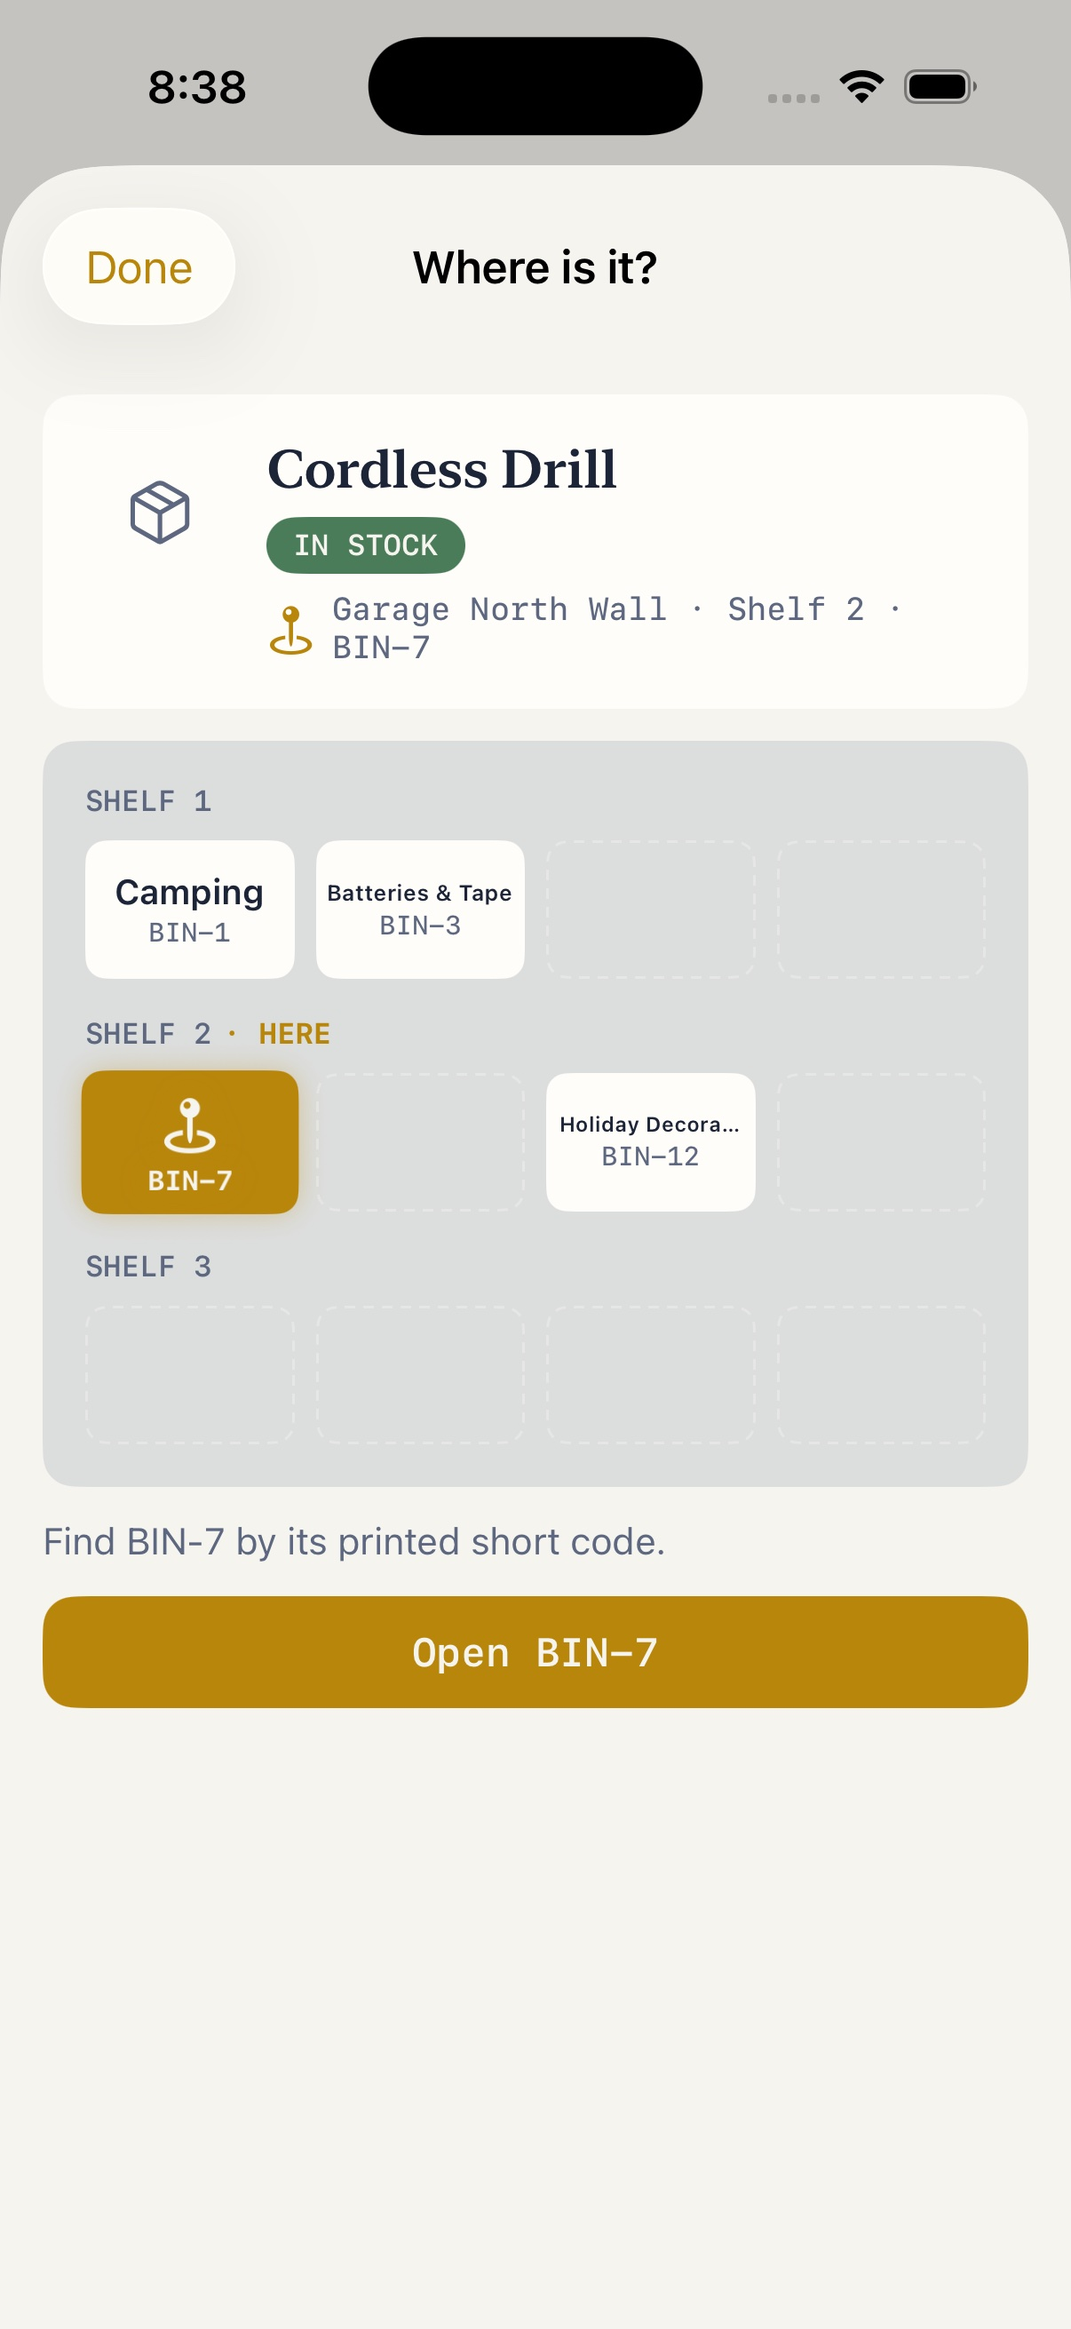
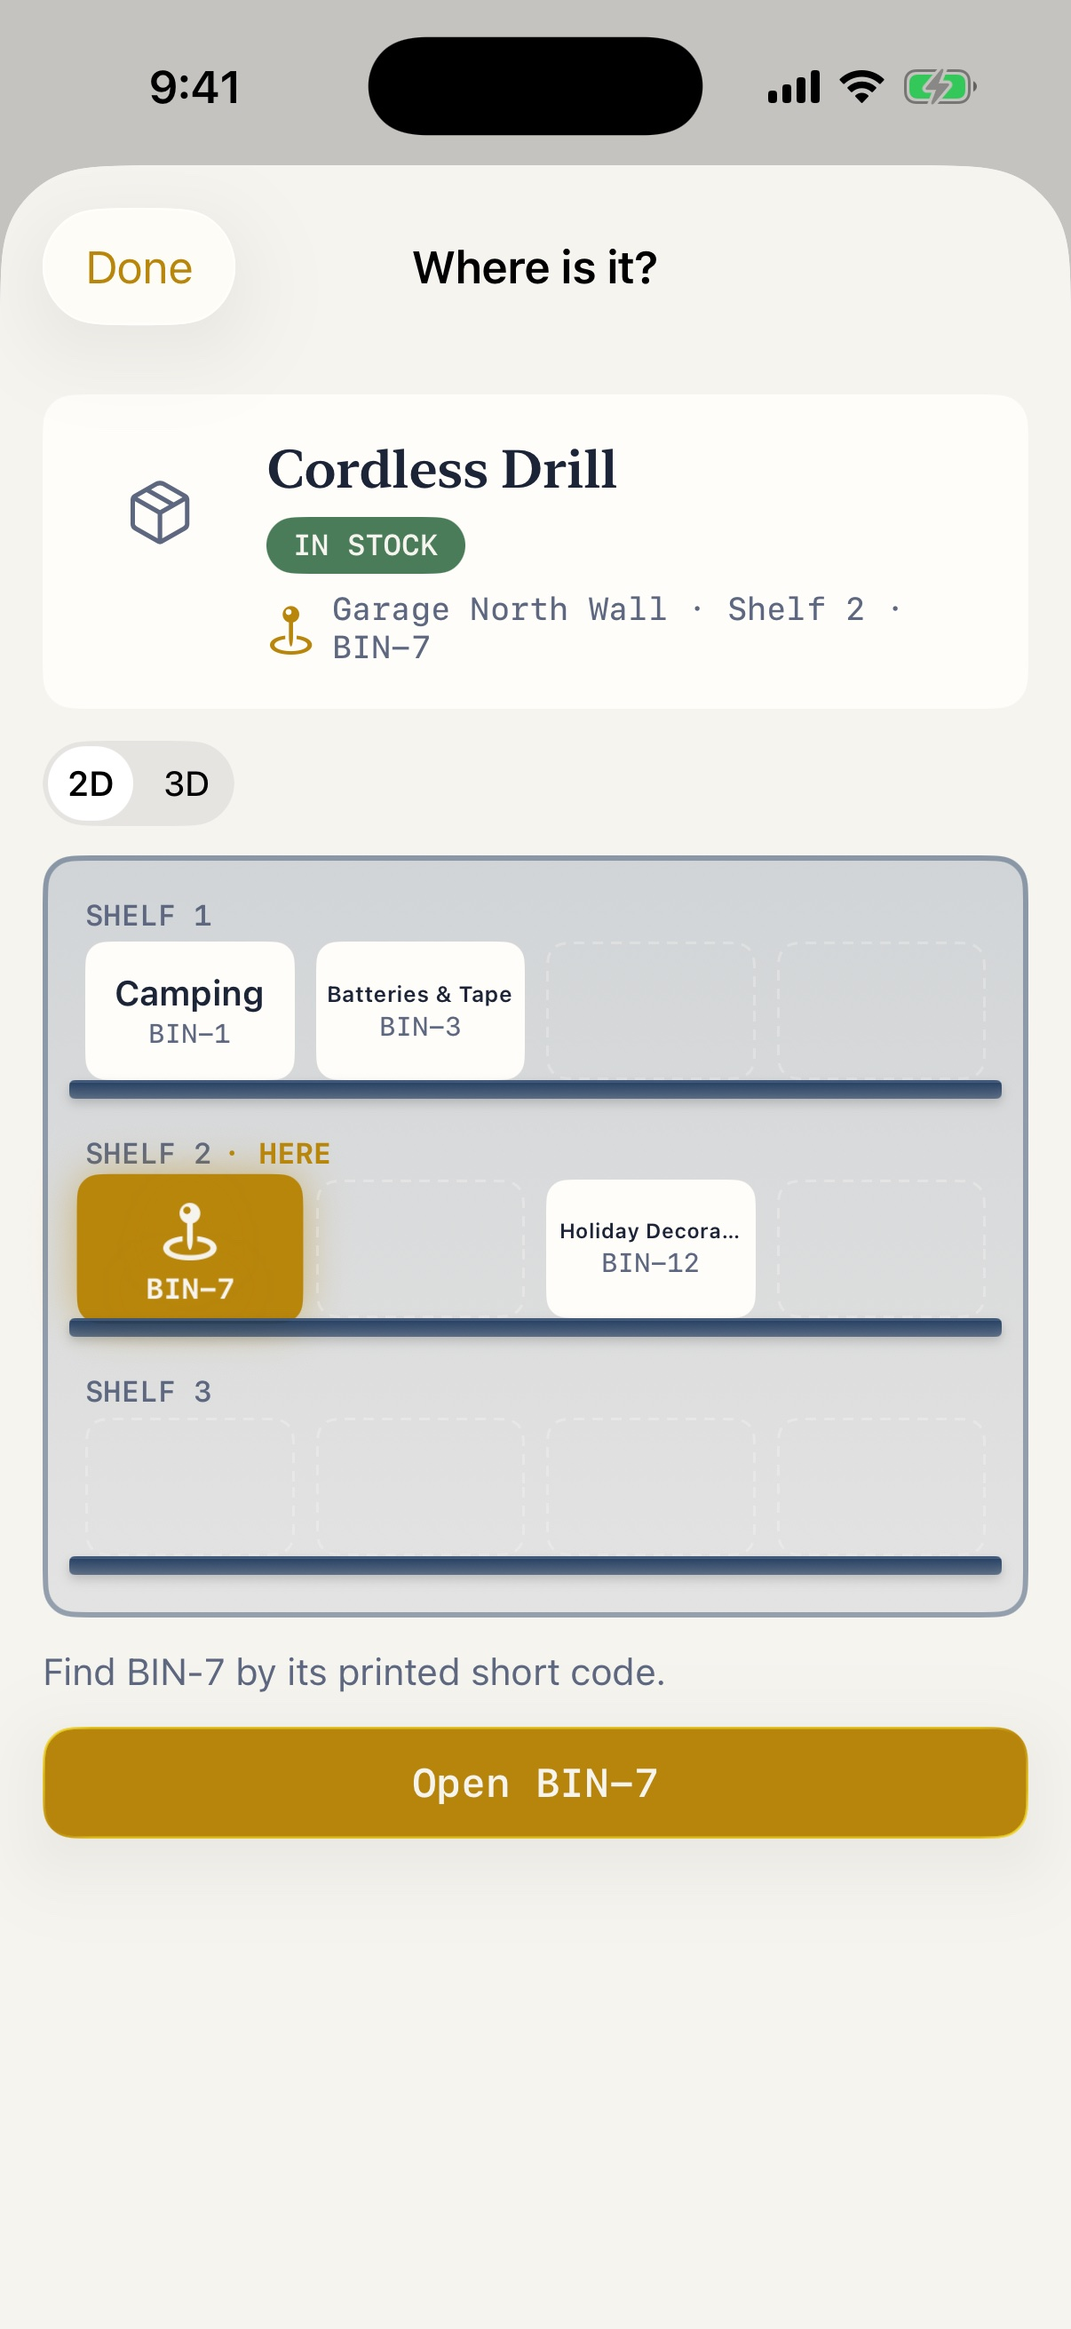
feat(site): v0.4 refresh — fresh screenshots, feature-catalog index, beta-status CTAs
- 8 fresh sim captures (6 refreshed + stats + settings), agent-verified
- #everything section: all 40 in-app FeatureCatalog features as expandables
- 5 new feature cards (3D rack, Siri, widgets, iCloud sync, barcode lookup)
- beta-testing status highlighted at every app CTA; stale NEW pills demoted
- sitemap lastmod; scoped feature-index styles in home.css

diff --git a/index.html b/index.html
@@ -146,7 +146,7 @@
       <a href="#spaces" data-nav-dim>Spaces</a>
       <a href="privacy.html" data-nav-dim>Privacy</a>
       <a href="support.html" data-nav-dim>Support</a>
-      <a class="cta-pill" href="#download">Get the app</a>
+      <a class="cta-pill" href="#download">Join the beta</a>
     </div>
   </nav>
 
@@ -175,7 +175,7 @@
               <svg class="glyph" width="21" height="25" viewBox="0 0 384 512" aria-hidden="true"><path fill="currentColor" d="M318.7 268.7c-.2-36.7 16.4-64.4 50-84.8-18.8-26.9-47.2-41.7-84.7-44.6-35.5-2.8-74.3 20.7-88.5 20.7-15 0-49.4-19.7-76.4-19.7C63.3 141.2 4 184.8 4 273.5q0 39.3 14.4 81.2c12.8 36.7 59 126.7 107.2 125.2 25.2-.6 43-17.9 75.8-17.9 31.8 0 48.3 17.9 76.4 17.9 48.6-.7 90.4-82.5 102.6-119.3-65.2-30.7-61.7-90-61.7-91.9zm-56.6-164.2c27.3-32.4 24.8-61.9 24-72.5-24.1 1.4-52 16.4-67.9 34.9-17.5 19.8-27.8 44.3-25.6 71.9 26.1 2 49.9-11.4 69.5-34.3z"/></svg>
               <span class="lines"><span class="line-small">Download on the</span><span class="line-big">App Store</span></span>
             </button>
-            <span class="coming-soon-tag">Coming soon — not yet on the App Store</span>
+            <span class="coming-soon-tag">In beta testing now — App Store release coming soon</span>
           </div>
           <a class="btn-ghost" href="#how">See how it works <svg class="icon" aria-hidden="true"><use href="#i-arrow-forward"></use></svg></a>
         </div>
@@ -258,7 +258,6 @@
         <div class="card" data-rv data-delay="60">
           <div class="card-head">
             <div class="icon-tile icon-tile--gold"><svg class="icon" aria-hidden="true"><use href="#i-location-fill"></use></svg></div>
-            <span class="pill-new">NEW</span>
           </div>
           <h3>Where is it?</h3>
           <p>See the bin's spot on a rack map, then tap its tag to confirm you're standing at the right one.</p>
@@ -277,7 +276,6 @@
         <div class="card" data-rv data-delay="120">
           <div class="card-head">
             <div class="icon-tile icon-tile--slate"><svg class="icon" aria-hidden="true"><use href="#i-category"></use></svg></div>
-            <span class="pill-new">NEW</span>
           </div>
           <h3>Collections &amp; filters</h3>
           <p>Group items into Collections that span bins, tag them, and narrow by category, location, in-stock, or has-a-photo.</p>
@@ -286,7 +284,6 @@
         <div class="card" data-rv>
           <div class="card-head">
             <div class="icon-tile icon-tile--rose"><svg class="icon" aria-hidden="true"><use href="#i-swap"></use></svg></div>
-            <span class="pill-new">NEW</span>
           </div>
           <h3>Lend it, get it back</h3>
           <p>Mark a tool lent with a due date and get a reminder to chase it. See what's out, what's overdue, and what you borrowed.</p>
@@ -295,7 +292,6 @@
         <div class="card" data-rv data-delay="60">
           <div class="card-head">
             <div class="icon-tile icon-tile--gold"><svg class="icon" aria-hidden="true"><use href="#i-inventory"></use></svg></div>
-            <span class="pill-new">NEW</span>
           </div>
           <h3>Never run out</h3>
           <p>Set a par level on consumables. "Running low" shows what's below par and exactly how many more you need.</p>
@@ -305,6 +301,51 @@
           <div class="icon-tile icon-tile--slate"><svg class="icon" aria-hidden="true"><use href="#i-print"></use></svg></div>
           <h3>Print your own labels</h3>
           <p>Lay out QR labels for whole racks at once and print to an Avery sheet or a roll printer over AirPrint. Tag once, find forever.</p>
+        </div>
+
+        <div class="card" data-rv>
+          <div class="card-head">
+            <div class="icon-tile icon-tile--navy"><svg class="icon" aria-hidden="true"><use href="#i-near-me"></use></svg></div>
+            <span class="pill-new">NEW</span>
+          </div>
+          <h3>Your racks, in 3D</h3>
+          <p>See any rack in 3D with its bins sitting on the shelves — tap one to open it, or use it to confirm you're at the right shelf.</p>
+        </div>
+
+        <div class="card" data-rv data-delay="60">
+          <div class="card-head">
+            <div class="icon-tile icon-tile--gold"><svg class="icon" aria-hidden="true"><use href="#i-sparkle"></use></svg></div>
+            <span class="pill-new">NEW</span>
+          </div>
+          <h3>Ask Siri, or just ask</h3>
+          <p>"Do I have AA batteries?" Ask in the app or through Siri and Shortcuts — add items, find things, and build collections by voice.</p>
+        </div>
+
+        <div class="card" data-rv data-delay="120">
+          <div class="card-head">
+            <div class="icon-tile icon-tile--slate"><svg class="icon" aria-hidden="true"><use href="#i-inventory"></use></svg></div>
+            <span class="pill-new">NEW</span>
+          </div>
+          <h3>Widgets that watch stock</h3>
+          <p>Low-stock and expiring-soon counts on your Home and Lock Screen, plus one-tap shortcuts into your racks, bins, and recent activity.</p>
+        </div>
+
+        <div class="card" data-rv>
+          <div class="card-head">
+            <div class="icon-tile icon-tile--sage"><svg class="icon" aria-hidden="true"><use href="#i-cloud-off"></use></svg></div>
+            <span class="pill-new">NEW</span>
+          </div>
+          <h3>Sync, only if you want it</h3>
+          <p>Everything lives on your device by default. Flip on iCloud sync and your inventory travels through your own iCloud to your iPad — never a Cubby server.</p>
+        </div>
+
+        <div class="card" data-rv data-delay="60">
+          <div class="card-head">
+            <div class="icon-tile icon-tile--rose"><svg class="icon" aria-hidden="true"><use href="#i-qr"></use></svg></div>
+            <span class="pill-new">NEW</span>
+          </div>
+          <h3>Barcode lookup, transparent</h3>
+          <p>Scan a product barcode and Cubby can look up its name — the app's one optional network call, confirmed before it's applied and logged in full so you can see exactly what left the device.</p>
         </div>
 
       </div>
@@ -417,6 +458,88 @@
     </div>
   </section>
 
+  <section class="features feature-index" id="everything">
+    <div class="container">
+      <div class="section-head">
+        <div class="eyebrow" data-rv>THE FULL LIST</div>
+        <h2 data-rv data-delay="80">Everything Cubby does,<br><em>in one list.</em></h2>
+        <p class="section-intro" data-rv data-delay="150">The same "What's in Cubby" index that ships inside the app — 40 features across six areas. Tap an area to expand it.</p>
+      </div>
+      <div class="feature-index-groups">
+        <details class="feature-index-group" data-rv>
+          <summary>Find <span class="count">6</span></summary>
+          <ul>
+            <li><strong>Search everything</strong> — One search across racks, bins, items, tags, and categories.</li>
+            <li><strong>Saved searches</strong> — Pin a query you run often and reopen it in a tap.</li>
+            <li><strong>Locate</strong> — Open an item and see exactly which rack and bin it lives in.</li>
+            <li><strong>Spotlight</strong> — Find your stuff straight from the iOS home-screen search.</li>
+            <li><strong>3D rack view</strong> — See any rack in 3D with its bins on the shelves — tap one to open it.</li>
+            <li><strong>Ask Cubby</strong> — Ask in plain language whether you have something or how many — in the app or through Siri.</li>
+          </ul>
+        </details>
+        <details class="feature-index-group" data-rv>
+          <summary>Capture <span class="count">11</span></summary>
+          <ul>
+            <li><strong>NFC + QR tags</strong> — Tap a tag to jump to a rack or bin instantly; tags hold only an id.</li>
+            <li><strong>Tag tutorial</strong> — A quick explainer walks you through NFC and QR tagging on first use, replayable anytime from Settings, the tag screens, or the bin/rack screen itself — which tracks which of NFC or QR you&#x27;ve already done.</li>
+            <li><strong>On-device naming</strong> — Vision crops to the item before suggesting a name from the photo — nothing leaves the device.</li>
+            <li><strong>AI naming (beta)</strong> — An on-device visual model and Apple Intelligence compose better names; suggestions appear as tappable chips — your edits always win.</li>
+            <li><strong>AI-generated labels</strong> — After you accept an AI-suggested name, on-device intelligence proposes a few organizing labels as tappable chips.</li>
+            <li><strong>Continuous add</strong> — Keep adding into the same bin without restarting the flow each time.</li>
+            <li><strong>Quick add from Home</strong> — Dedicated Add-item and Add-bin/rack buttons, plus a right-swipe on Home straight into the scan camera.</li>
+            <li><strong>Burst mode</strong> — Capture several items in one pass, then fine-tune each in a full per-item editor before saving.</li>
+            <li><strong>Adopt a QR label</strong> — Scan any pre-printed QR code and make it a bin or rack&#x27;s own tag in one tap.</li>
+            <li><strong>Barcode lookup</strong> — Optionally resolve a product name from a scanned UPC, with a confirm sheet before it&#x27;s applied (off by default).</li>
+            <li><strong>Voice input</strong> — Dictate an item&#x27;s name or notes instead of typing.</li>
+          </ul>
+        </details>
+        <details class="feature-index-group" data-rv>
+          <summary>Track <span class="count">6</span></summary>
+          <ul>
+            <li><strong>Low-stock par levels</strong> — Set a par level and Cubby flags items running low.</li>
+            <li><strong>Expiry reminders</strong> — Add a use-by date and get a reminder before it lapses.</li>
+            <li><strong>Loans</strong> — Mark an item lent out, to whom, and get reminded to chase it back.</li>
+            <li><strong>Moving mode</strong> — Group bins into boxes with destination rooms and check them off.</li>
+            <li><strong>Quantity units</strong> — Pick a unit — count, weight, volume, length — per item; quantities format and roll up correctly everywhere.</li>
+            <li><strong>Usage stats</strong> — See your own activity — items added, scans, favorites, loans, voice-command volume, and how often you keep AI-suggested names as-is — all computed on-device.</li>
+          </ul>
+        </details>
+        <details class="feature-index-group" data-rv>
+          <summary>Manage <span class="count">9</span></summary>
+          <ul>
+            <li><strong>Collections</strong> — Group items into Collections that span bins — &quot;Camping Gear,&quot; &quot;Holiday.&quot;</li>
+            <li><strong>Favorites</strong> — Star an item and find it instantly in its own Collections tile.</li>
+            <li><strong>Item cover photos</strong> — Replace the cover, import from Photos or Files, promote any gallery photo to the cover, or remove it.</li>
+            <li><strong>Item photo gallery</strong> — Swipe through an item&#x27;s photos, tap a thumbnail to jump to it, or open fullscreen to pinch, pan, and swipe between them.</li>
+            <li><strong>Voice edits</strong> — Dictate multi-field changes to an item, with a per-field confirm before anything is applied.</li>
+            <li><strong>Labels &amp; printing</strong> — Print QR labels with short-code fallbacks in your preferred layout.</li>
+            <li><strong>Backup &amp; export</strong> — Export your inventory and restore it — your data, in your hands.</li>
+            <li><strong>Activity history</strong> — Every rack, bin, and item has its own History page of adds, moves, and scans.</li>
+            <li><strong>Trash</strong> — Deleted items rest in the trash, restorable until you clear them.</li>
+          </ul>
+        </details>
+        <details class="feature-index-group" data-rv>
+          <summary>Anywhere <span class="count">4</span></summary>
+          <ul>
+            <li><strong>Siri &amp; Shortcuts</strong> — Add or find items by voice, create a collection from a spoken query, or wire Cubby into your own shortcuts. &quot;Check my inventory in Cubby&quot; works for anything and asks which item; a Settings guide shows how to ask without saying “Cubby” at all.</li>
+            <li><strong>Voice command list</strong> — Every supported voice and Siri phrase, browsable from Settings.</li>
+            <li><strong>Home &amp; Lock widgets</strong> — Low-stock and expiring-soon counts on your Home and Lock Screen, plus a Racks &amp; Bins widget and a recent-activity shortcut on the Home Screen.</li>
+            <li><strong>Built for iPad</strong> — A two-column layout that uses the whole iPad screen, in any orientation.</li>
+          </ul>
+        </details>
+        <details class="feature-index-group" data-rv>
+          <summary>Private <span class="count">4</span></summary>
+          <ul>
+            <li><strong>On-device by default</strong> — No accounts, no cloud backend, no telemetry, no third-party SDKs.</li>
+            <li><strong>Opt-in iCloud sync</strong> — Off until you turn it on, and then only through your own iCloud.</li>
+            <li><strong>Diagnostic log</strong> — A local activity log you can share for troubleshooting or clear anytime — nothing is ever sent automatically.</li>
+            <li><strong>Network transparency</strong> — A log of every barcode lookup — the app&#x27;s one outgoing network call — showing the barcode, the result, and whether it actually left this device. Kept on-device in Stats; never in a bug report or export.</li>
+          </ul>
+        </details>
+      </div>
+    </div>
+  </section>
+
   <section class="screens" id="screens">
     <div class="container">
       <div class="screens-head">
@@ -424,7 +547,7 @@
           <div class="eyebrow" data-rv>EVERY SCREEN</div>
           <h2 data-rv data-delay="80">The whole house,<br><em>in your pocket.</em></h2>
         </div>
-        <p data-rv data-delay="150">Straight from the App Store — calm, legible, and built for one-handed use in a dim garage. Drag to browse.</p>
+        <p data-rv data-delay="150">Straight from the current beta build — calm, legible, and built for one-handed use in a dim garage. Drag to browse.</p>
       </div>
     </div>
     <div class="screens-rail">
@@ -435,6 +558,8 @@
         <figure data-rv data-delay="60"><img src="assets/screens/04-collections.jpg" alt="A Collection grouping items by tag across bins" loading="lazy" width="302" height="655"></figure>
         <figure data-rv data-delay="120"><img src="assets/screens/05-lend.jpg" alt="On loan — a lent item with a due-date reminder" loading="lazy" width="302" height="655"></figure>
         <figure data-rv data-delay="180"><img src="assets/screens/06-restock.jpg" alt="Running low — consumables below their par level" loading="lazy" width="302" height="655"></figure>
+        <figure data-rv data-delay="240"><img src="assets/screens/07-stats.jpg" alt="Usage stats — your own activity, computed on-device" loading="lazy" width="302" height="655"></figure>
+        <figure data-rv data-delay="300"><img src="assets/screens/08-settings.jpg" alt="Settings — privacy and features, tags, labels, backup" loading="lazy" width="302" height="655"></figure>
       </div>
     </div>
   </section>
@@ -514,8 +639,8 @@
   <section class="download" id="download">
     <div class="download-panel" data-rv>
       <img class="download-mark" src="assets/icon.svg" alt="Cubby app icon">
-      <h2>Coming soon to<br>the App Store.</h2>
-      <p class="lede">One tap to find anything you've stored. Be first in line when Cubby lands.</p>
+      <h2>In beta testing today.<br>App Store coming soon.</h2>
+      <p class="lede">One tap to find anything you've stored. Cubby is under active beta testing on TestFlight — the App Store release is coming soon.</p>
       <div class="download-ctas">
         <div class="cta-inert">
           <button type="button" class="btn-store" disabled aria-label="Download on the App Store — coming soon">
@@ -525,8 +650,8 @@
           <span class="coming-soon-tag">Coming soon</span>
         </div>
         <div class="cta-inert">
-          <button type="button" class="btn-ghost" disabled aria-label="Join the beta — coming soon">Join the beta</button>
-          <span class="coming-soon-tag">Coming soon</span>
+          <button type="button" class="btn-ghost" disabled aria-label="Join the beta — public beta opening soon">Join the beta</button>
+          <span class="coming-soon-tag">Under beta testing — public beta opening soon</span>
         </div>
       </div>
       <div class="download-req">iPHONE OR IPAD · iOS 26 OR LATER · TAP-TO-OPEN NEEDS NFC</div>

diff --git a/assets/home.css b/assets/home.css
@@ -295,3 +295,18 @@
   .home .hero-drag-hint{display:none}
   .home .hero-poster-grid{grid-template-columns:repeat(3,44px);grid-template-rows:repeat(3,34px);gap:10px}
 }
+
+/* ── Feature index (#everything): the in-app "What's in Cubby" catalog as an
+   expandable list. details/summary only — no JS dependency. ── */
+.home .feature-index-groups{max-width:820px;margin:0 auto}
+.home .feature-index-group{border:1px solid var(--hairline);border-radius:12px;margin:0 0 12px;background:rgba(255,255,255,.55);overflow:hidden}
+.home .feature-index-group summary{cursor:pointer;list-style:none;display:flex;align-items:center;gap:10px;padding:16px 20px;font-family:var(--home-font-display);font-size:20px;font-weight:600;color:var(--ink)}
+.home .feature-index-group summary::-webkit-details-marker{display:none}
+.home .feature-index-group summary::before{content:"+";font-family:var(--home-font-mono);font-size:16px;color:var(--home-gold);width:18px;text-align:center;flex:none}
+.home .feature-index-group[open] summary::before{content:"–"}
+.home .feature-index-group summary .count{margin-left:auto;font-family:var(--home-font-mono);font-size:12px;color:var(--ink-dim);background:rgba(30,58,95,.07);padding:2px 10px;border-radius:999px}
+.home .feature-index-group summary:hover{color:var(--home-gold)}
+.home .feature-index-group ul{margin:0;padding:4px 20px 16px 48px;list-style:none}
+.home .feature-index-group li{font-size:15px;line-height:1.6;color:var(--ink-dim);padding:6px 0;border-top:1px solid rgba(28,36,56,.05)}
+.home .feature-index-group li:first-child{border-top:0}
+.home .feature-index-group li strong{color:var(--ink);font-weight:600}
